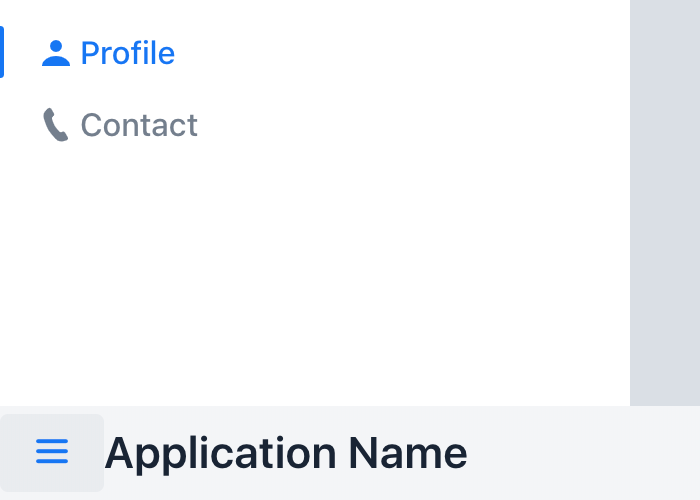
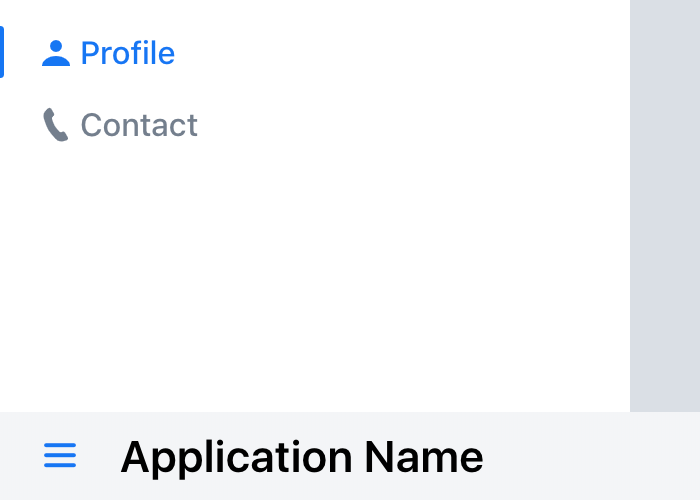
docs: update screenshots and example code snippets

Changed region(s): [[0.15, 0.87, 0.69, 0.96], [0.03, 0.87, 0.12, 0.96], [0.9, 0.81, 1.0, 0.84]]

diff --git a/README.md b/README.md
@@ -20,10 +20,8 @@
 
 ```html
 <vaadin-app-layout>
-  <nav slot="navbar touch-optimized">
-    <vaadin-drawer-toggle></vaadin-drawer-toggle>
-    <h3>Application Name</h3>
-  </nav>
+  <vaadin-drawer-toggle slot="navbar touch-optimized"></vaadin-drawer-toggle>
+  <h3 slot="navbar touch-optimized">Application Name</h3>
   <vaadin-tabs orientation="vertical" slot="drawer">
     <vaadin-tab>
       <a href="/profile">
@@ -42,7 +40,7 @@
 </vaadin-app-layout>
 ```
 
-[<img src="https://raw.githubusercontent.com/vaadin/vaadin-app-layout/master/screenshot.png" width="801" alt="Screenshot of vaadin-app-layout">](https://vaadin.com/components/vaadin-app-layout)
+[<img src="https://raw.githubusercontent.com/vaadin/vaadin-app-layout/master/screenshot.png" width="900" alt="Screenshot of vaadin-app-layout">](https://vaadin.com/components/vaadin-app-layout)
 
 [<img src="https://raw.githubusercontent.com/vaadin/vaadin-app-layout/master/screenshot-mobile.png" width="350" alt="Screenshot of vaadin-app-layout on mobile">](https://vaadin.com/components/vaadin-app-layout)
 

diff --git a/vaadin-directory-description.md b/vaadin-directory-description.md
@@ -13,10 +13,21 @@
 
 ```html
 <vaadin-app-layout>
-  <h3 slot="branding">Application Name</h3>
-  <vaadin-tabs slot="menu">
-      <vaadin-tab>Page 1</vaadin-tab>
-      <vaadin-tab>Page 2</vaadin-tab>
+  <vaadin-drawer-toggle slot="navbar touch-optimized"></vaadin-drawer-toggle>
+  <h3 slot="navbar touch-optimized">Application Name</h3>
+  <vaadin-tabs orientation="vertical" slot="drawer">
+    <vaadin-tab>
+      <a href="/profile">
+        <iron-icon icon="lumo:user"></iron-icon>
+        Profile
+      </a>
+    </vaadin-tab>
+    <vaadin-tab>
+      <a href="/contact">
+        <iron-icon icon="lumo:phone"></iron-icon>
+        Contact
+      </a>
+    </vaadin-tab>
   </vaadin-tabs>
   <div>Page content</div>
 </vaadin-app-layout>
